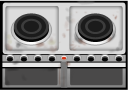
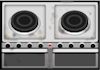
rescaled assets

diff --git a/game/src/main/java/org/teamfarce/mirch/MIRCH.java b/game/src/main/java/org/teamfarce/mirch/MIRCH.java
@@ -56,7 +56,6 @@ public class MIRCH extends ApplicationAdapter{
 	private InputController inputController;
 	
 	private Skin uiSkin;
-
 	
 	private ArrayList<RenderItem> rooms;
 	private ArrayList<RenderItem> objects;
@@ -106,7 +105,9 @@ public class MIRCH extends ApplicationAdapter{
             null,
             options1,
             options1[2]
-        );        
+        );    
+        
+        values[0]++;
         
         values[1] = JOptionPane.showOptionDialog(
             null,
@@ -118,6 +119,9 @@ public class MIRCH extends ApplicationAdapter{
             options1,
             options1[2]
         );
+        
+        values[1]++;
+        
         values[2] = JOptionPane.showOptionDialog(
             null,
             "Choose a final style for your character.",
@@ -128,6 +132,9 @@ public class MIRCH extends ApplicationAdapter{
             options1,
             options1[2]
         );
+        
+        values[2]++;
+        
         return values;
     }
 	
